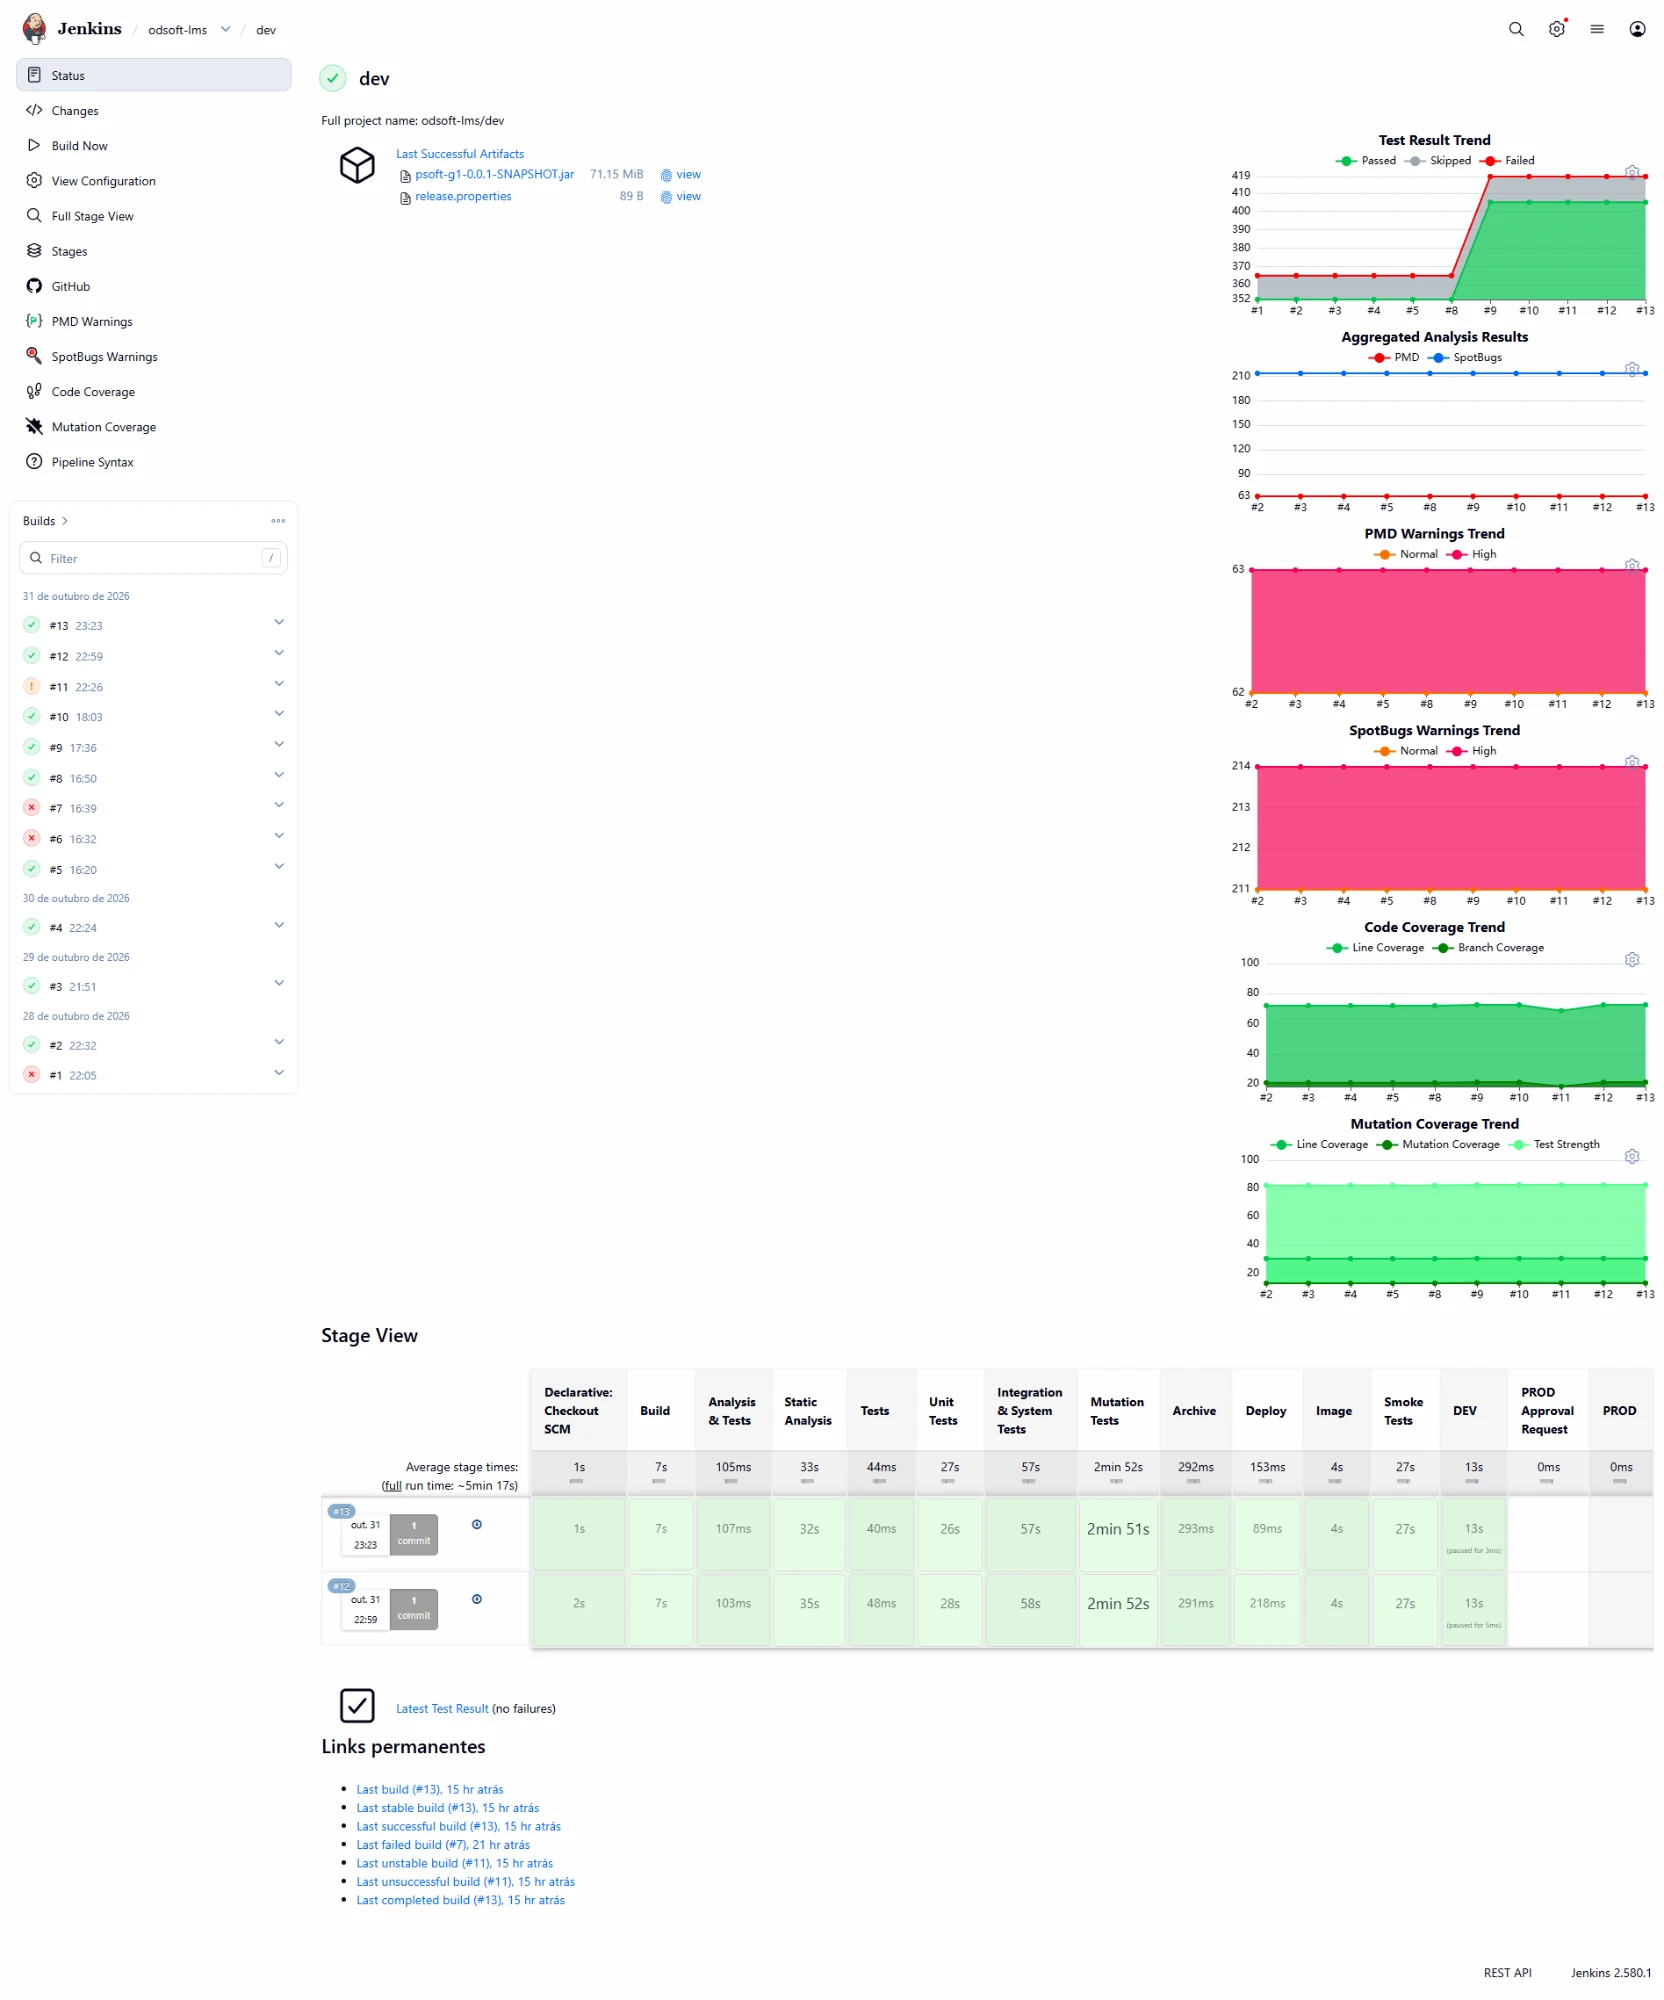
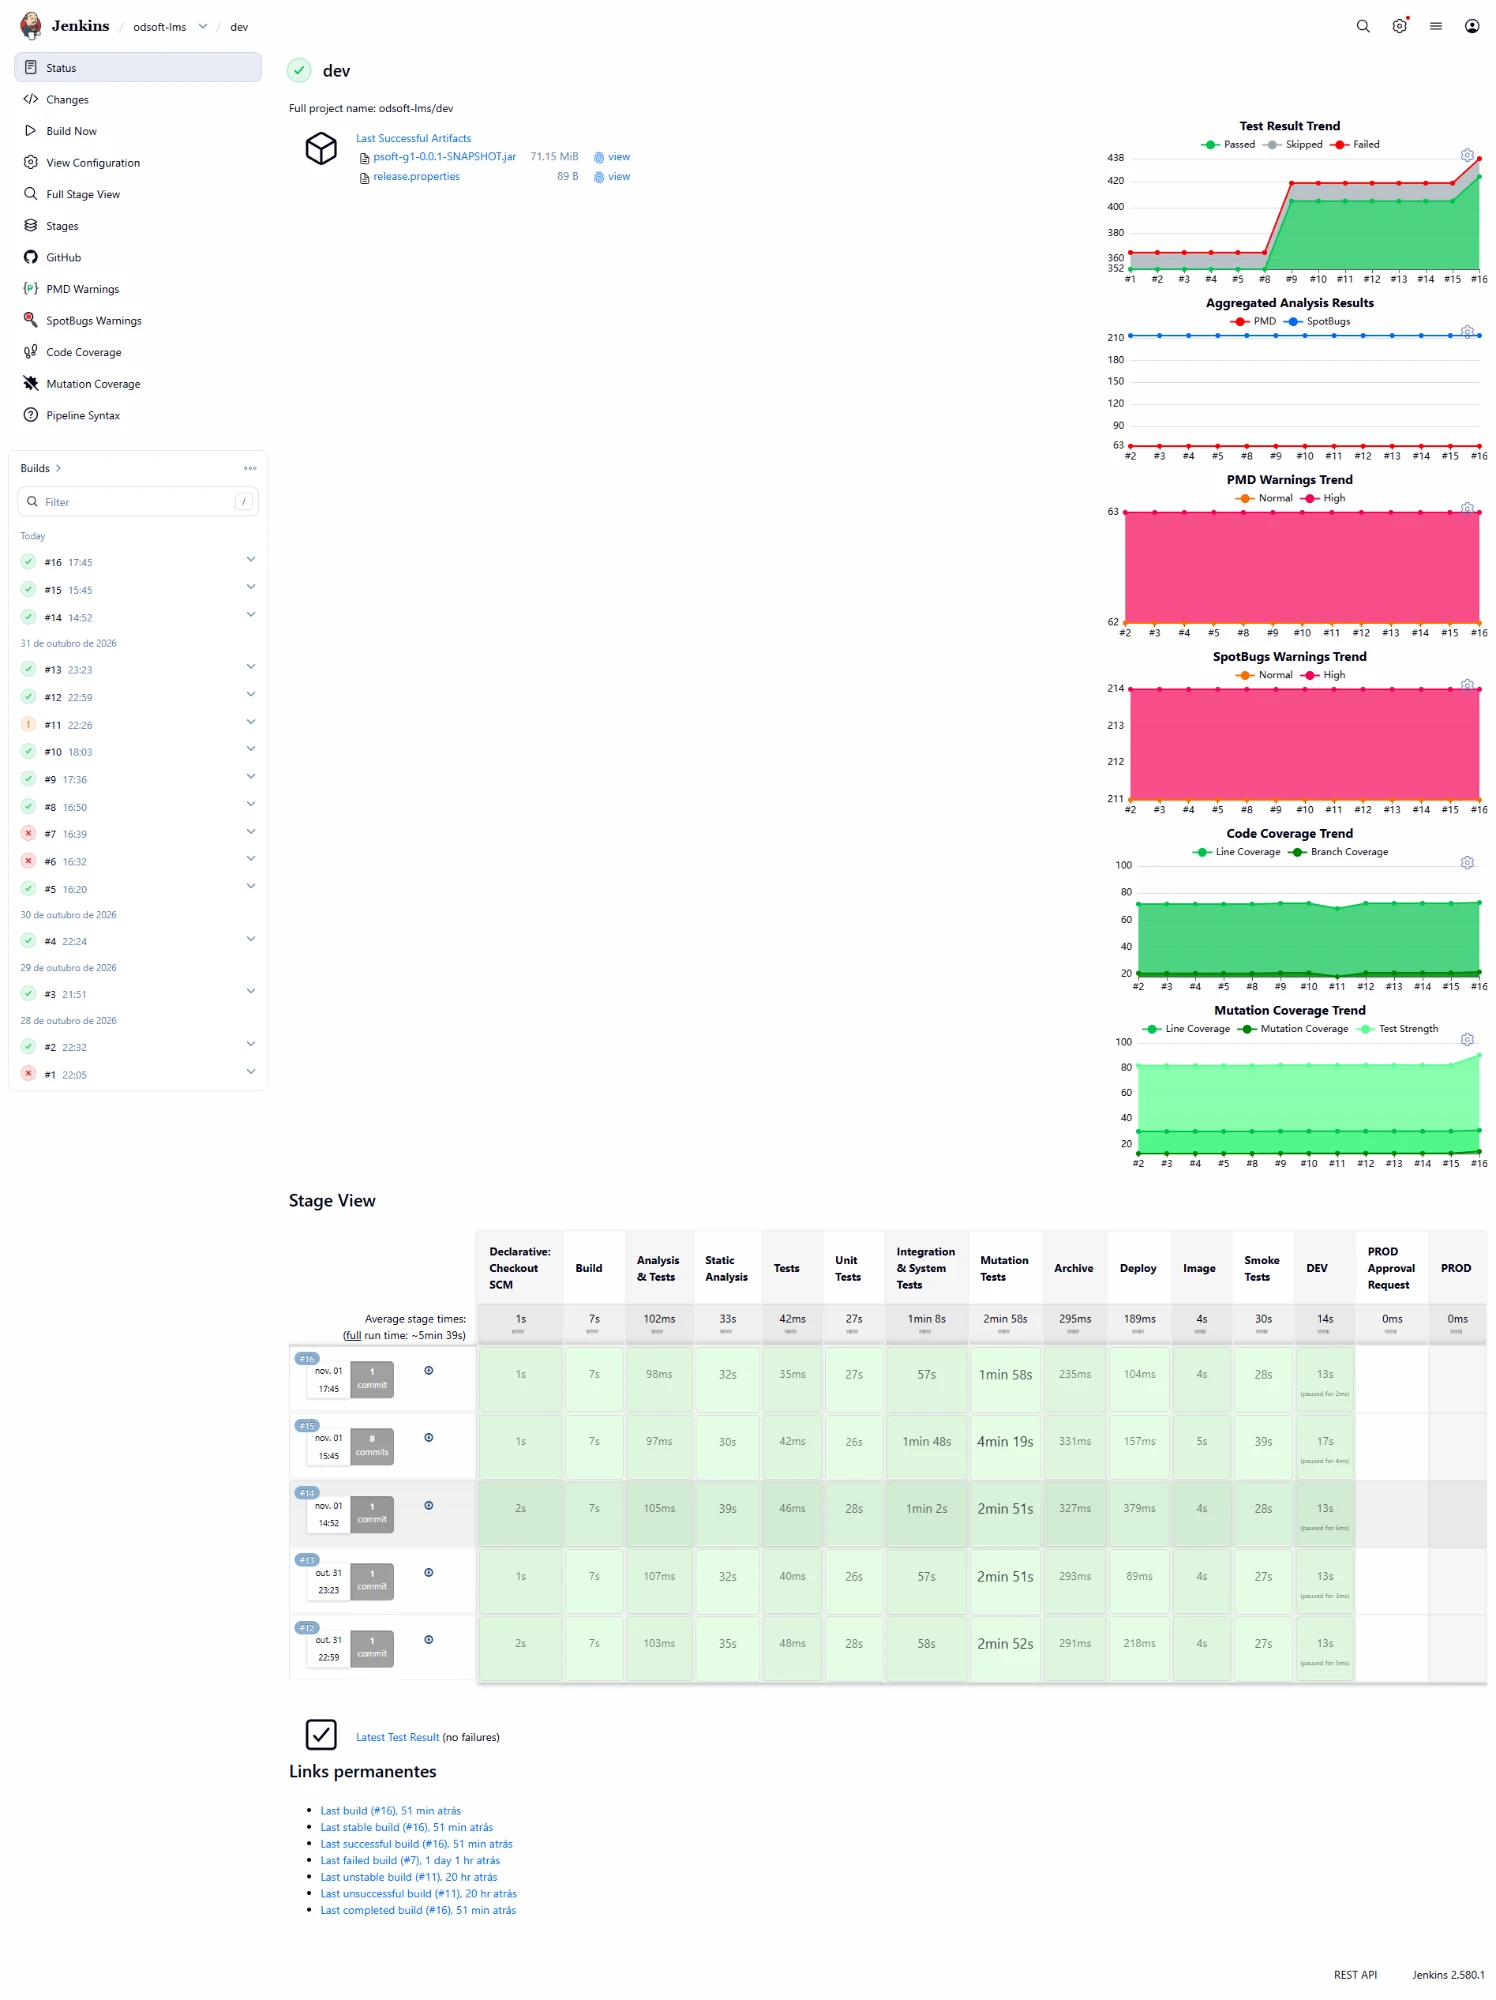
docs: updates on docs

diff --git a/docs/reports/sys-to-be/system-to-be.md b/docs/reports/sys-to-be/system-to-be.md
@@ -21,9 +21,9 @@ Um quality gate falhado deixa o build `UNSTABLE`, e o deploy não corre:
 
 | Quality gate | Mínimo | Atual |
 |---|---:|---:|
-| Linhas (JaCoCo) | 70% | 72,6% |
-| Branches (JaCoCo) | 20% | 21,3% |
-| Mutation coverage (PIT) | 12% | 13% |
+| Linhas (JaCoCo) | 70% | 73,2% |
+| Branches (JaCoCo) | 20% | 21,9% |
+| Mutation coverage (PIT) | 12% | 15% |
 | Problemas novos de PMD e SpotBugs | 0 | |
 
 ## 2. Deploy
@@ -46,8 +46,8 @@ Por problemas técnicos com as VMs, os ambientes correm numa só máquina:
 
 | Nível | Testes | Peso | Objetivo | Doubles |
 |---|---:|---:|---|---|
-| Unitário (`unit/`) | 301 | 72% | Uma classe isolada | Mockito e fakes |
-| Integração (`integration/`) | 104 | 25% | Camadas reais em conjunto (H2, Spring MVC, Security) | Só `@MockBean` para isolar uma camada |
+| Unitário (`unit/`) | 320 | 73% | Uma classe isolada | Mockito e fakes |
+| Integração (`integration/`) | 104 | 24% | Camadas reais em conjunto (H2, Spring MVC, Security) | Só `@MockBean` para isolar uma camada |
 | Sistema (`system/`) | 14 | 3% | Fluxos completos pela API; fazem de e2e, porque não há frontend | Nenhum |
 
 - Caixa opaca por defeito (classes de equivalência, valores-limite, casos negativos); caixa transparente só para lógica interna, com o critério indicado.
@@ -64,20 +64,20 @@ Por problemas técnicos com as VMs, os ambientes correm numa só máquina:
 | H2 em memória | Outra base de dados | Evita novas implementações no projeto; é a mesma dos testes | Os dados perdem-se a cada deploy ou restart |
 | Nível do teste pela pasta | Pelo sufixo do nome | Nível explícito; testes com Spring deixam de correr como unitários | É preciso pôr cada teste na pasta certa |
 | Gates como `UNSTABLE` que bloqueia o deploy | `FAILURE` | Os relatórios são publicados na mesma, mas nada é implantado | Os mínimos têm de subir à medida que os testes melhoram |
-| PMD e SpotBugs contam só problemas novos | Contar o total | Nenhum problema novo entra; os antigos não bloqueiam | Os antigos (64 PMD, 214 SpotBugs) continuam por corrigir |
+| PMD e SpotBugs contam só problemas novos | Contar o total | Nenhum problema novo entra; os antigos não bloqueiam | Os antigos (63 PMD, 214 SpotBugs) continuam por corrigir |
 | PIT só com os unitários | Incluir os de integração | Com o Spring a arrancar por mutante, o stage seria muito mais lento | Controllers aparecem com mutation baixa |
 | Smoke tests antes de qualquer ambiente | Só health check após o deploy | Erros de configuração apanhados sem tocar em DEV nem PROD | Mais dois containers por build |
 | Aprovação manual com email para PROD | Deploy automático | Uma pessoa decide quando promover | Depende de alguém disponível e do SMTP |
 
 ## 5. Métricas do pipeline
 
-Jenkins 2.580.1, de 28-10-2026 a 31-10-2026: branch `dev` (builds #1 a #13) e branch `main` (builds #1 a #11).
+Jenkins 2.580.1, de 28-10-2026 a 01-11-2026: branch `dev` (builds #1 a #16) e branch `main` (builds #1 a #13).
 
 ![Jenkins, branch dev](jenkins-dev.png)
 
 ![Jenkins, branch main](jenkins-main.png)
 
-Duração média por stage na branch `dev`:
+Duração média por stage na branch `dev` até 31-10-2026, antes das melhorias da secção 6:
 
 | Stage | Duração média | Peso |
 |---|---:|---:|
@@ -91,15 +91,42 @@ Duração média por stage na branch `dev`:
 | DEV | 13 s | 4% |
 | **Total** | **cerca de 5 min 17 s** | |
 
-- **Resultado dos builds:** em `dev`, 9 `SUCCESS`, 1 `UNSTABLE` e 3 falhados. Em `main`, 7 `SUCCESS`, 3 falhados e 1 abortado.
-- **Deploys em PROD:** os builds #7 a #11 de `main` foram implantados em PROD, cada um com a aprovação registada ("PROD approved by illu"). Os stages comuns têm as mesmas durações em `main`; o total médio sobe para cerca de 6 min 9 s com o email de aprovação (3 s), o deploy em PROD (11 s) e a espera pela aprovação (59 s no build #10 e 21 s no #11).
+- **Resultado dos builds:** em `dev`, 12 `SUCCESS`, 1 `UNSTABLE` e 3 falhados. Em `main`, 9 `SUCCESS`, 3 falhados e 1 abortado.
+- **Deploys em PROD:** os builds #7 a #13 de `main` foram implantados em PROD, cada um com a aprovação registada ("PROD approved by illu"). Os stages comuns têm as mesmas durações em `main`; o total médio sobe para cerca de 6 min 9 s com o email de aprovação (3 s), o deploy em PROD (11 s) e a espera pela aprovação (59 s no build #10 e 21 s no #11).
 - **Quality gate em ação:** o build #11 ficou `UNSTABLE` no commit que excluía o `bootstrapping` do JaCoCo. A cobertura desceu abaixo dos mínimos (linhas cerca de 68%, branches cerca de 18%), e o deploy não correu. O build #12 repôs a configuração e voltou a `SUCCESS`.
-- **Tendências estáveis:** os testes passaram de 352 para 419 a partir do build #9; PMD (63) e SpotBugs (214) mantiveram-se sem problemas novos.
+- **Tendências:** os testes passaram de 352 para 419 no build #9 de `dev` e para 438 no #16; PMD (63) e SpotBugs (214) mantiveram-se sem problemas novos.
 - **Antes:** não havia pipeline; o build era manual (`mvn clean package`, 7,2 s, sem relatórios de qualidade nem deploy). **Agora:** cada push tem feedback completo e deploy em DEV em cerca de 5 minutos.
-- **Bottleneck:** o Mutation Tests ocupa mais de metade do pipeline e corre depois dos testes. Melhorias possíveis: correr o PIT com várias threads (`-Dthreads`), usar a análise incremental do PIT (`withHistory`) ou corrê-lo em paralelo com os testes de integração.
+- **Bottleneck:** o Mutation Tests ocupa mais de metade do pipeline e corre depois dos testes.
 
-## 6. Limitações
+## 6. Melhorias a partir das métricas
+
+| Melhoria | Antes | Depois |
+|---|---:|---:|
+| PIT com 4 threads (`<threads>4</threads>`), execução local completa com compilação | não medido | 30 s |
+| PIT com análise incremental (`<withHistory>true</withHistory>`), execução seguinte | 30 s | 16 s |
+| Testes unitários | 301 | 320 |
+| Mutantes mortos | 407 | 456 |
+| Mutantes sobreviventes | 86 | 48 |
+| Test strength | 83% | 90% |
+
+Duração do stage Mutation Tests no Jenkins:
+
+| Build | Configuração do PIT | Duração |
+|---|---|---:|
+| `dev` #14, `main` #11 | Sem threads nem histórico | 2 min 51 s |
+| `dev` #15, `main` #12 | Primeira execução com 4 threads e histórico, mais 19 testes | 4 min 19 s e 4 min 16 s |
+| `dev` #16 | Com o histórico do build anterior | 1 min 58 s |
+| `main` #13 | Com o histórico do `dev` #16, mesmo código | 18 s |
+
+- **PIT mais rápido:** depois da primeira execução, o stage passou de 2 min 51 s para 1 min 58 s (menos 31%). Em `main` desceu para 18 s, porque reaproveitou o histórico criado pelo build de `dev` com o mesmo código.
+- **Primeira execução mais lenta (4 min 19 s):** a causa não está confirmada. Nessa execução não havia histórico, foi criado o ficheiro e correram 19 testes novos; outra hipótese é a máquina do Jenkins não ter 4 núcleos livres. Fica por medir com mais builds.
+- **Mais mutantes mortos:** os testes novos cobrem a regra foto/URI com as 4 combinações, verificam os valores devolvidos pelos serviços (antes só eram chamados) e usam stubs com listas não vazias, valores-limite e consentimentos a `true` e a `false`.
+- **Sobreviventes que ficam:** 7 dependem de defeitos conhecidos (só morrem quando forem corrigidos), cerca de 9 são equivalentes (não mudam o comportamento observável) e os restantes são getters gerados pelo Lombok nos DTOs.
+- **Mutation coverage sobe pouco (13% para 15%):** 58% dos mutantes estão no `equals` e no `hashCode` gerados pelo Lombok, que nenhum teste corre. A test strength é a medida relevante aqui.
+
+## 7. Limitações
 
 - Não há ambiente de staging.
 - PROD usa H2 em memória: serve para demonstrar o processo, não para guardar dados.
 - Margens pequenas nos gates de branches e de mutation.
+- O histórico do PIT fica num ficheiro da pasta temporária, partilhado pelos jobs `dev` e `main`. É isso que torna o `main` #13 tão rápido, mas dois builds em simultâneo podem usar o mesmo ficheiro.

diff --git a/docs/reports/first-submission.md b/docs/reports/first-submission.md
@@ -1,6 +1,6 @@
 # Meta 1: estado inicial vs. estado atual
 
-Estado inicial: commit `ddddc2a` (26-09-2026), detalhado em [system-as-is.md](sys-as-is/system-as-is.md). Estado atual: branch `dev` (31-10-2026), detalhado em [system-to-be.md](sys-to-be/system-to-be.md).
+Estado inicial: commit `ddddc2a` (26-09-2026), detalhado em [system-as-is.md](sys-as-is/system-as-is.md). Estado atual: branch `dev` (01-11-2026), detalhado em [system-to-be.md](sys-to-be/system-to-be.md).
 
 ## 1. Testes e cobertura
 
@@ -8,12 +8,12 @@ No início corriam 102 testes em 21 classes: 89 unitários do modelo de domínio
 
 | Indicador | Inicial | Atual |
 |---|---:|---:|
-| Testes executados | 102 | 419 (301 unitários, 104 de integração, 14 de sistema) |
+| Testes executados | 102 | 438 (320 unitários, 104 de integração, 14 de sistema) |
 | Classes de teste | 21 | 47 |
-| Linhas cobertas (JaCoCo) | 19% | 72,6% |
-| Branches cobertas (JaCoCo) | 4% | 21,3% |
-| Mutation coverage (PIT) | 5% | 13% |
-| Test strength (PIT) | 63% | 83% |
+| Linhas cobertas (JaCoCo) | 19% | 73,2% |
+| Branches cobertas (JaCoCo) | 4% | 21,9% |
+| Mutation coverage (PIT) | 5% | 15% |
+| Test strength (PIT) | 63% | 90% |
 
 ## 2. Deploy
 
